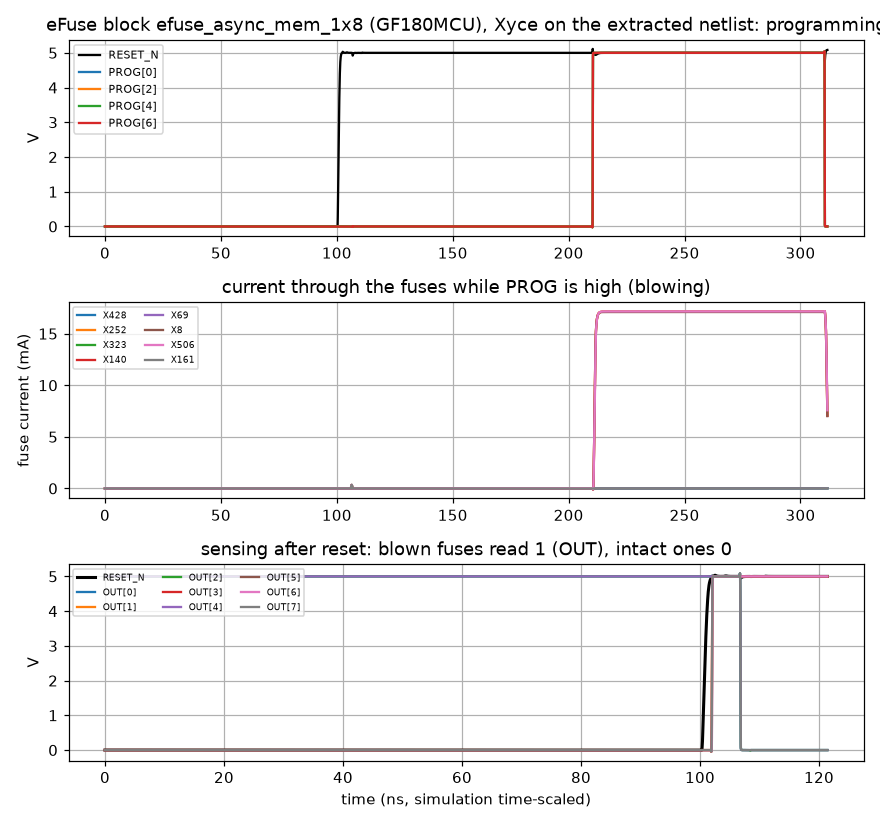
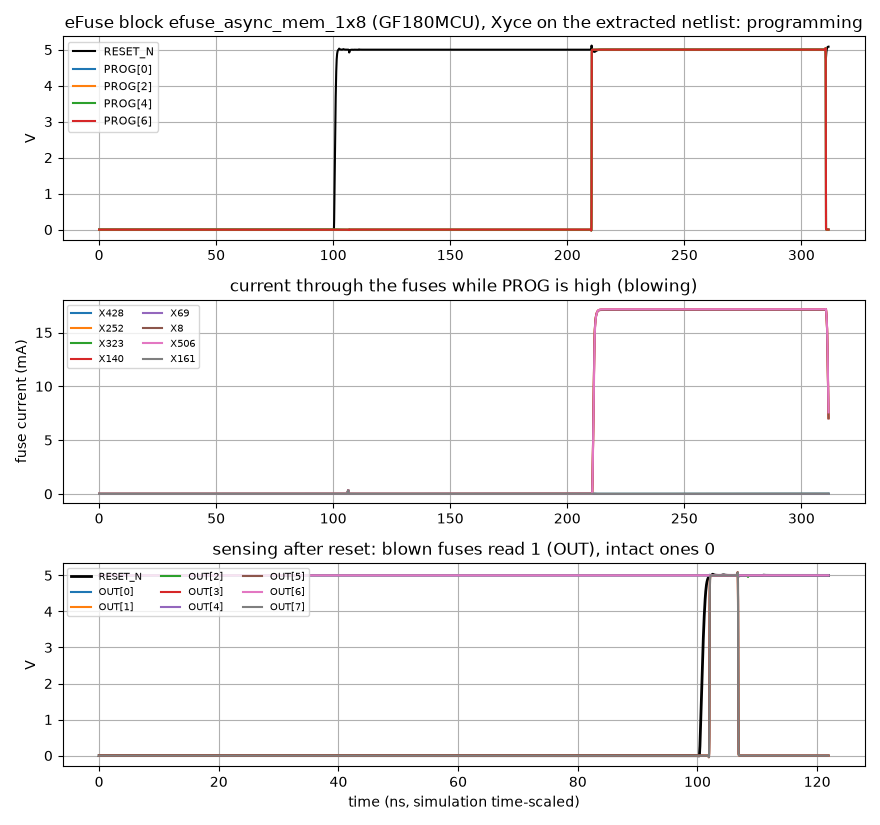
figures: efuse_figures.py, the eFuse block's layout and Xyce figures from results/otp/gf180-efuse/
Both figures of the AdvA OTP had no script in the repository. layout renders the block's GDS with
KLayout 0.30.4 (pip klayout==0.30.4.post1): 0 pixels differ from efuse_async_mem_1x8.png. xyce plots
xyce_async_write_0 (programming, fuse current) and xyce_async_read_0 (sensing after reset); the same
data and curves as before, efuse_xyce.png regenerated by it (the title no longer clipped).

diff --git a/scripts/figures/efuse_figures.py b/scripts/figures/efuse_figures.py
@@ -1,0 +1,103 @@
+#!/usr/bin/env python3
+"""The figures of the AdvA OTP block (GF180MCU eFuse), from the files in results/otp/gf180-efuse/.
+
+Author: Miguel Simões
+
+Run from the repository root in WSL:
+
+  python3 scripts/figures/efuse_figures.py xyce   OUT_DIR   # efuse_xyce.png (NumPy, Matplotlib)
+  python3 scripts/figures/efuse_figures.py layout OUT_DIR   # efuse_async_mem_1x8.png (the klayout module)
+
+xyce: the compiler's own Xyce runs on the block's extracted netlist (results/otp/gf180-efuse/run/,
+`./efuse.py 1 8 --async-efuse --digital-wrapper=async`, provenance.txt): xyce_async_write_0
+programs PROG[0], [2], [4] and [6] (the current through each fuse while it blows), xyce_async_read_0
+senses the block with those four fuses blown (blown.map) after a reset.
+layout: the block's GDS (macros/efuse_array_async_1x8/efuse_async_mem_1x8/), KLayout's default layer colours on black,
+fitted, 1000 x 1000 px. KLayout 0.30.4 as in the compiler's nix-shell (pip: klayout==0.30.4.post1).
+"""
+
+from __future__ import annotations
+
+import argparse
+import gzip
+from pathlib import Path
+
+ROOT = Path(__file__).resolve().parents[2]
+OTP = ROOT / "results/otp/gf180-efuse"
+
+
+def read_csv(run: str) -> dict:
+    import numpy as np
+    with gzip.open(OTP / "run" / run / "xyce.csv.gz", "rt") as f:
+        names = f.readline().strip().split(",")
+        data = np.loadtxt(f, delimiter=",", ndmin=2)
+    return {n: data[:, k] for k, n in enumerate(names)}
+
+
+def fig_xyce(out_dir: Path) -> None:
+    import matplotlib
+    matplotlib.use("Agg")
+    import matplotlib.pyplot as plt
+
+    w, r = read_csv("xyce_async_write_0"), read_csv("xyce_async_read_0")
+    fig, axs = plt.subplots(3, 1, figsize=(8.8, 8.25))
+
+    ax = axs[0]
+    t = w["TIME"] * 1e9
+    ax.plot(t, w["V(RESET_N)"], "k", label="RESET_N")
+    for k in (0, 2, 4, 6):
+        ax.plot(t, w[f"V(PROG[{k}])"], label=f"PROG[{k}]")
+    ax.set_ylabel("V")
+    ax.set_title("eFuse block efuse_async_mem_1x8 (GF180MCU), Xyce on the extracted netlist: programming")
+
+    ax = axs[1]
+    for n in [n for n in w if n.startswith("I(")]:
+        ax.plot(t, abs(w[n]) * 1e3, label=n.split(":")[1])
+    ax.set_ylabel("fuse current (mA)")
+    ax.set_title("current through the fuses while PROG is high (blowing)")
+    ax.legend(loc="upper left", fontsize=7, ncol=2)
+
+    ax = axs[2]
+    t = r["TIME"] * 1e9
+    ax.plot(t, r["V(RESET_N)"], "k", lw=2, label="RESET_N")
+    for k in range(8):
+        ax.plot(t, r[f"V(OUT[{k}])"], label=f"OUT[{k}]")
+    ax.set_ylabel("V")
+    ax.set_xlabel("time (ns, simulation time-scaled)")
+    ax.set_title("sensing after reset: blown fuses read 1 (OUT), intact ones 0")
+    ax.legend(loc="upper left", fontsize=7, ncol=3)
+
+    axs[0].legend(loc="upper left", fontsize=8)
+    for ax in axs:
+        ax.grid(True)
+    plt.tight_layout()
+    plt.savefig(out_dir / "efuse_xyce.png", dpi=100)
+    plt.close()
+    print("saved", out_dir / "efuse_xyce.png")
+
+
+def fig_layout(out_dir: Path) -> None:
+    import klayout.lay as lay
+
+    gds = OTP / "macros/efuse_array_async_1x8/efuse_async_mem_1x8/efuse_async_mem_1x8.gds"
+    v = lay.LayoutView()
+    v.load_layout(str(gds), True)
+    v.max_hier()
+    v.zoom_fit()
+    v.set_config("background-color", "#000000")
+    v.set_config("grid-visible", "false")
+    v.save_image(str(out_dir / "efuse_async_mem_1x8.png"), 1000, 1000)
+    print("saved", out_dir / "efuse_async_mem_1x8.png")
+
+
+def main() -> None:
+    p = argparse.ArgumentParser(description=__doc__.split("\n")[0])
+    p.add_argument("figure", choices=("xyce", "layout"))
+    p.add_argument("out_dir", type=Path)
+    a = p.parse_args()
+    a.out_dir.mkdir(parents=True, exist_ok=True)
+    fig_xyce(a.out_dir) if a.figure == "xyce" else fig_layout(a.out_dir)
+
+
+if __name__ == "__main__":
+    main()
